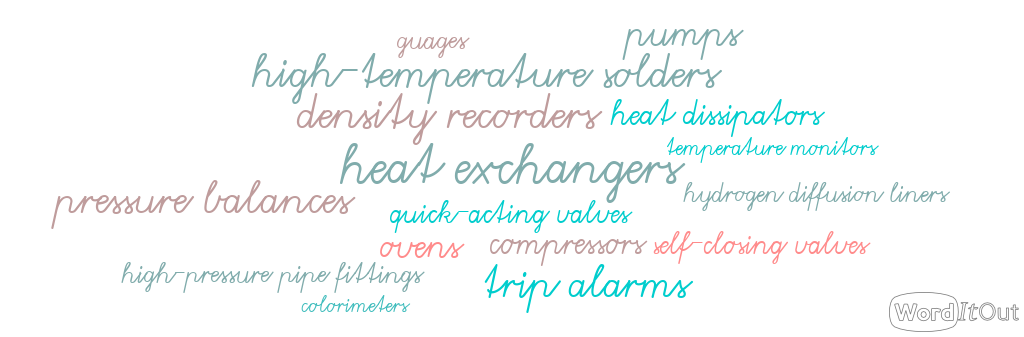
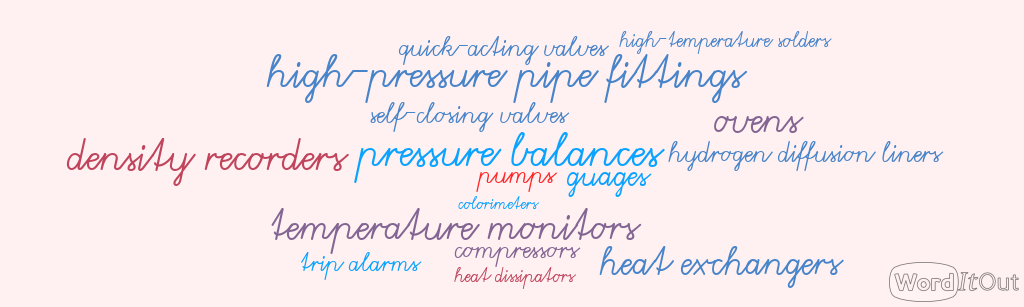
changed background color

Changed region(s): [[0.0312, 0.0879, 0.9375, 0.9381], [0.8438, 0.8502, 1.0, 0.9967]]

diff --git a/src/components/books/the-alchemy-of-air/FixNitrogen.tsx b/src/components/books/the-alchemy-of-air/FixNitrogen.tsx
@@ -2,10 +2,10 @@ import ParticleSimulationCanvas from "@/components/books/the-alchemy-of-air/Part
 import { Particle } from "@/components/books/the-alchemy-of-air/Particle";
 import React, { useEffect } from "react";
 import { Block } from "@/components/books/the-alchemy-of-air/Block";
-import { NITROGEN_COLOR } from "@/components/books/the-alchemy-of-air/constants";
+import { BACKGROUND_COLOR, NITROGEN_COLOR } from "@/components/books/the-alchemy-of-air/constants";
 import useAnimationEventListener from "@/common/useAnimationEventListener";
 
-const blocks = [new Block(250, 100, 10, 10, "white", 45)];
+const blocks = [new Block(250, 100, 10, 10, BACKGROUND_COLOR, 45)];
 
 // this animation works by spawning two particles close to each other (but not touching) and sending them to the right
 // in the middle of the canvas, there is a rotated square (at a 45 degree angle) that the particles will collide with, splitting them apart

diff --git a/src/styles/globals.css b/src/styles/globals.css
@@ -3,7 +3,7 @@
 @tailwind utilities;
 
 .fade-in-on-scroll {
-    opacity: 0.0;
+    opacity: 0;
     transition: opacity 0.5s ease-in;
 }
 
@@ -13,7 +13,7 @@
 }
 
 .fade-in-on-scroll-slow {
-    opacity: 0.0;
+    opacity: 0;
     transition: opacity 2s ease-in;
 }
 
@@ -27,19 +27,20 @@
     transition: width 2s ease-in;
 }
 
-
 .expanded {
     width: 100%;
     transition: width 2s ease-in;
 }
 
-.underline-on-scroll, .underlined {
+.underline-on-scroll,
+.underlined {
     display: inline-block;
     position: relative;
 }
 
-.underline-on-scroll::after, .underlined::after {
-    content: '';
+.underline-on-scroll::after,
+.underlined::after {
+    content: "";
     position: absolute;
     width: 100%;
     transform: scaleX(0);
@@ -56,7 +57,6 @@
     transform: scaleX(1);
     transform-origin: bottom left;
 }
-
 
 /*:root {*/
 /*  --foreground-rgb: 0, 0, 0;*/

diff --git a/src/components/books/the-alchemy-of-air/CubicDrop.tsx b/src/components/books/the-alchemy-of-air/CubicDrop.tsx
@@ -3,9 +3,9 @@ import { Particle } from "@/components/books/the-alchemy-of-air/Particle";
 import React, { useEffect } from "react";
 import { Block } from "@/components/books/the-alchemy-of-air/Block";
 import useAnimationEventListener from "@/common/useAnimationEventListener";
-import { NITROGEN_COLOR } from "./constants";
+import { BACKGROUND_COLOR, NITROGEN_COLOR } from "./constants";
 
-const BOX_COLOR = "white";
+const BOX_COLOR = BACKGROUND_COLOR;
 // const BOX_COLOR = "#dedede";
 const blocks = [
     new Block(250, 0, 400, 70, BOX_COLOR, 0),

diff --git a/src/components/books/the-alchemy-of-air/IncreasePressure.tsx b/src/components/books/the-alchemy-of-air/IncreasePressure.tsx
@@ -3,8 +3,9 @@ import { Particle } from "@/components/books/the-alchemy-of-air/Particle";
 import React, { useEffect } from "react";
 import { Block } from "@/components/books/the-alchemy-of-air/Block";
 import useAnimationEventListener from "@/common/useAnimationEventListener";
+import { BACKGROUND_COLOR } from "./constants";
 
-const BOX_COLOR = "white";
+const BOX_COLOR = BACKGROUND_COLOR;
 // const BOX_COLOR = "#dedede";
 const blocks = [
     new Block(250, 50, 200, 70, BOX_COLOR, 0),

diff --git a/src/components/books/the-alchemy-of-air/IncreaseHeat.tsx b/src/components/books/the-alchemy-of-air/IncreaseHeat.tsx
@@ -5,8 +5,9 @@ import { Block } from "@/components/books/the-alchemy-of-air/Block";
 import useAnimationEventListener from "@/common/useAnimationEventListener";
 import { Queue } from "@/common/queue";
 import { generateGradient } from "@/utils/generateGradient";
+import { BACKGROUND_COLOR } from "./constants";
 
-const BOX_COLOR = "white";
+const BOX_COLOR = BACKGROUND_COLOR;
 // const BOX_COLOR = "#dedede";
 const blocks = [
     new Block(250, 50, 200, 20, BOX_COLOR, 0),

diff --git a/tailwind.config.js b/tailwind.config.js
@@ -11,7 +11,7 @@ module.exports = {
         extend: {
             colors: {
                 // color names found via this website: https://www.color-name.com/hex/ff947d
-                "background-color": "white", // TODO: restore this color
+                "background-color": "#FFF0F1", // TODO: restore this color
                 // "background-color": "black",
                 // "text-primary": "white",
                 "sleepover-primary": "#FF947D",

diff --git a/src/components/books/the-alchemy-of-air/ParticleSimulationCanvas.tsx b/src/components/books/the-alchemy-of-air/ParticleSimulationCanvas.tsx
@@ -325,7 +325,7 @@ export default function ParticleSimulationCanvas({
         circle.velocity = reflection;
     }
 
-    const defaultClassNames = "fade-in-on-scroll relative z-10 h-full w-full bg-white";
+    const defaultClassNames = "fade-in-on-scroll relative z-10 h-full w-full bg-background-color";
     const classNames = extraClassNames
         ? `${defaultClassNames} ${extraClassNames}`
         : defaultClassNames;

diff --git a/src/components/books/the-alchemy-of-air/constants.ts b/src/components/books/the-alchemy-of-air/constants.ts
@@ -1,1 +1,4 @@
 export const NITROGEN_COLOR = "#99e6ff";
+
+// remember to sync this variable with the tailwind.config.js file
+export const BACKGROUND_COLOR = "#FFF0F1";
